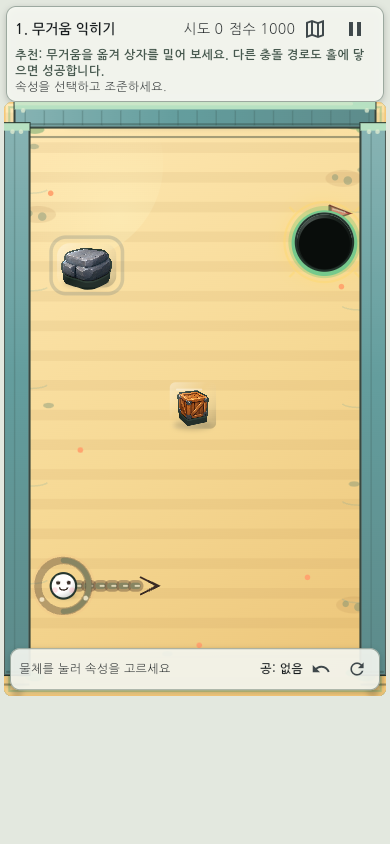
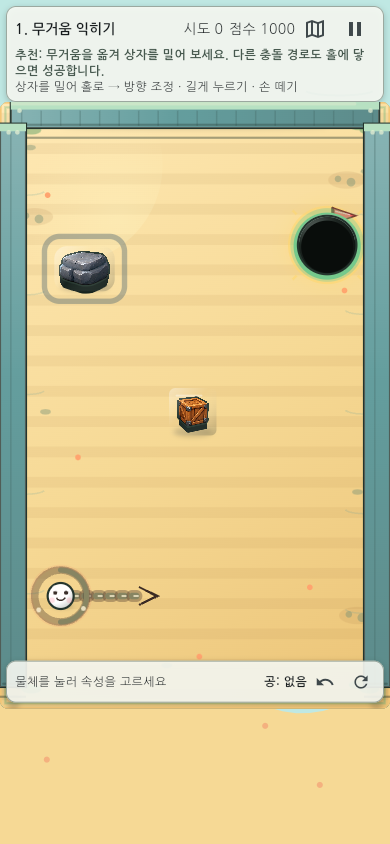
docs: 최신 제품 검증과 화면 캡처 기록

diff --git a/harness_docs/dev-wiki/log.md b/harness_docs/dev-wiki/log.md
@@ -1209,6 +1209,19 @@ Use consistent headings so entries are easy to grep.
 
 - 활성 공도 연쇄 물체와 같은 `_wallBounceVelocity`를 사용하도록 연결해 직접·연쇄 충돌의 입사 벡터와 반발 계수 계산을 단일 경로로 만든다.
 - 결과 방향·속도는 기존 벽 반사 규칙을 유지하고, 고정 벽의 질량을 움직이는 물체에 전달하지 않는 불변식을 테스트한다.
+2026-08-02 | shell | 모바일 플레이 보드의 좌우 내부 여백을 줄여 세로 화면 점유율을 높이고, 클리어 팝업을 콘텐츠 중심의 제한 높이·스크롤 구조와 짧은 등장 애니메이션으로 개선한다.
+2026-08-02 | qa | 팝업 경계 회귀에서 `math.min` 결과의 num 타입을 발견해 고정 높이 계산을 명시적인 double로 정리한다.
+2026-08-02 | qa | 콘텐츠 일괄 스크롤 구조에서 작은 뷰포트의 결과 버튼이 하단 밖으로 밀리는 회귀를 확인해, 정보 영역과 고정 버튼 영역을 다시 분리한다.
+2026-08-02 | qa | 클리어 패널 자체의 높이와 버튼 경계를 직접 검증할 수 있도록 결과 패널 키와 모바일 위젯 회귀를 추가한다.
+2026-08-02 | qa | 최신 Web release에서 390×844 실제 속성 이전·조준·발사·클리어 경로를 실행하고, 393·430·768·1024 폭 플레이 캡처와 390 홈·지도·결과 캡처를 갱신한다.
+2026-08-02 | qa | 최신 화면·팝업 변경의 최종 회귀 수와 서버 PID·HTTP 응답·캡처 범위를 검증 문서에 추가한다. 이전 실행 수치는 역사적 기준선으로 보존한다.
+2026-08-02 | art | 홈의 단독 공 이미지가 게임의 목표와 상호작용을 충분히 설명하지 못해, 공·돌·상자·홀을 함께 보여주는 자체 보드 미리보기로 교체한다. 실제 플레이 화면의 정답 궤적은 노출하지 않는다.
+2026-08-02 | qa | Subagent 재검토에서 확인된 복제 코어 되감기 상태 불일치, 768px 축약 HUD 조작 안내 누락, 화면 계측 통합 검증 공백을 함께 보완한다.
+2026-08-02 | qa | 축약 HUD에 별도 안내 행을 추가하면 320px 보드 폭이 줄어드는 회귀가 확인됐다. 별도 행은 제거하고 제품 라우터의 단계 시작 메시지에 기존 짧은 조작 순서를 연결한다.
+2026-08-02 | puzzle | 다중 샷 분석기의 기본 각도·힘 격자를 리포트와 문서의 표준인 20도·20%로 맞춰 기본 생성자와 공식 난이도 보고서가 같은 기준을 사용하게 한다.
+2026-08-02 | agents | 아트·QA·퍼즐 Subagent 최신 사후 평가를 비교했다. 홈 보드 미리보기·결과 패널·모바일 보드 점유율은 개선됐고, 코어 되감기·축약 라우터 안내·계측 주입·해상도별 실제 입력 검증을 다음 회귀에 반영한다.
+2026-08-02 | qa | 최종 회귀에서 전체 124개 테스트·난이도 리포트·Web release를 통과했다. 기존 서버 PID 14419를 PID 26180으로 교체하고 루트·번들 HTTP 200 및 390×844 실제 클리어 콘솔 오류 0건을 확인했다. iOS Xcode 컴파일은 완료됐으나 Development Team·프로비저닝 프로파일 부족으로 배포 단계가 실패했다.
+2026-08-02 | qa | 위젯 테스트 선언 수를 다시 세어 최신 `test/widget_test.dart` 기준 41개임을 확인하고 검증 문서의 40개 표기를 41개로 정정한다.
 2026-08-02 | qa | Wasm 실행 캡처에서 한글 글리프가 네모로 표시되는 문제를 확인하고, 플랫폼 한글 글꼴 우선순위를 테마에 지정하는 검증을 시작한다.
 2026-08-02 | qa | 실제 모바일 입력으로 첫 단계 클리어 팝업은 표시되지만 애니메이션 종료 프레임에 경로 마지막 점의 다음 인덱스를 읽는 웹 IndexError를 발견했다. 종료 렌더 경계 회귀를 추가한다.
 2026-08-02 | qa | 경계 회귀의 직접 렌더 테스트가 Flame 레이아웃 미설정으로 실패했다. 테스트 호스트에 게임 캔버스 크기를 명시해 실제 마지막 프레임 렌더를 계속 검증한다.
@@ -1232,3 +1245,16 @@ Use consistent headings so entries are easy to grep.
 2026-08-02 | qa | 확장 다중 샷 탐색에서 3단계 점착 후 무거움 재선택 2회 성공 경로를 확인했다. 보고서 대표 순서를 샷 횟수 대신 한글 행동명으로 표시해 실제 대체 풀이를 검토 가능하게 한다.
 2026-08-02 | qa | 다중 샷 분석기에서 속성 라벨 확장 import 누락으로 테스트 컴파일 오류가 발생했다. TraitType 라벨 확장을 명시적으로 연결해 분석 도구의 한글 출력 계약을 복원한다.
 2026-08-02 | qa | 최종 다중 샷 보고서에서 1단계 3,373/52,920, 2단계 3,511/52,380, 3단계 4,046/133,110 성공을 재확인했다. 3단계 점착 이전·복제 후 무거움 이전 순서를 대체 풀이 근거로 문서화한다.
+2026-08-02 | progression | 목표 문서와 현재 직접 GameScreen 기준값을 대조해 일반 시작 상태의 복사권 기본값이 남아 있는 불일치를 확인했다. 복제 코어 보유 상태에서만 복사가 가능하도록 도메인·레벨·테스트 기준값을 0으로 통일한다.
+2026-08-02 | progression | 복제 코어 테스트 상태의 화면 라벨은 `복사 n회`가 아니라 `복제 코어 n개 남음`으로 이미 분기되어 있었다. 관련 위젯 기대값을 제품 언어와 일치시켜 회귀를 복원한다.
+2026-08-02 | art | 모바일 플레이 캡처의 보드 아래 무채색 여백을 해변 실험 섬 배경과 연결한다. 물리 보드 크기·좌표는 유지하고 Flutter 배경에 물결·모래·장식만 추가해 제품 세계의 연속성을 높인다.
+2026-08-02 | puzzle | 퍼즐 진단에서 대표 행동만으로는 점착 후 최종 성공의 물리적 인과를 증명할 수 없음을 확인했다. 다중 샷 계획에 샷별 충돌 이벤트를 함께 보존하고 점착 부착·홀 진입 회귀를 추가한다.
+2026-08-02 | qa | 실제 사용자 결과를 추정하지 않고 내부 플레이 흐름만 분석할 수 있도록 개인정보 없는 로컬 계측 계층을 추가한다. 스테이지·시도·속성·조준·충돌·되감기·클리어를 JSON/CSV로 내보낼 수 있게 한다.
+2026-08-02 | docs | README와 복제 자원 문서의 이전 단계별 복사권 설명을 현재 제품 규칙과 맞춘다. 공식 App Store·개발사·Apple Design Awards 자료에서 추출한 원칙과 모방하지 않을 요소를 별도 레퍼런스 매트릭스에 기록한다.
+2026-08-02 | progression | 단계 초기화가 현재 소모 후 코어 수량을 그대로 재사용하는 문제를 확인했다. 단계 진입 시점의 코어 스냅샷을 저장해 초기화는 자원을 복원하고, 다음 단계 이동은 현재 보유량만 전달하도록 분리한다.
+2026-08-02 | qa | 전체 정적 분석에서 로컬 계측 이벤트의 nullable map 조건식 7건이 정보 lint로 보고됐다. 이벤트 기본 맵과 nullable 필드 추가를 분리해 분석 결과를 깨끗하게 유지한다.
+2026-08-02 | progression | 3단계 클리어 보상을 받은 뒤 같은 단계를 초기화하는 경우에도 보상 코어를 유지해야 하므로, 보상 적용 시점에 단계 코어 스냅샷을 갱신한다.
+2026-08-02 | qa | 복사 적용 직후 속성 팝업을 닫는 기존 UX 때문에 중간 잔량 문구를 즉시 조회하는 새 테스트가 잘못되었다. 실제 사용자처럼 초기화 후 팝업을 다시 열어 진입 시점 코어가 복원됐는지만 검증한다.
+2026-08-02 | qa | 코어 복원 테스트가 개발용 단계 선택 모드에서 실행되어 제품 규칙을 적용하지 않는 것을 확인했다. 실제 앱 라우터와 같은 `showStageSelector=false`로 테스트 모드를 맞춘다.
+2026-08-02 | qa | 제품 라우터 모드를 위젯 테스트에서 재현할 수 있도록 PropertyShotApp에 표시 모드 전달 옵션을 추가한다. 기본값은 기존 개발 하네스 호환성을 유지한다.
+2026-08-02 | qa | 모드 전달 옵션이 코어 보유 팝업 테스트에 먼저 적용된 것을 확인했다. 단계 초기화 회귀에도 동일한 제품 모드를 명시해 실제 초기화 경로를 검증한다.

diff --git a/harness_docs/research/mobile_puzzle_reference_matrix.md b/harness_docs/research/mobile_puzzle_reference_matrix.md
@@ -1,16 +1,22 @@
-# 모바일 퍼즐 레퍼런스 매트릭스
+# 모바일 퍼즐 레퍼런스 조사 매트릭스
 
-이번 조사는 특정 게임의 화면이나 에셋을 복제하기 위한 것이 아니라, 모바일 퍼즐의 정보 위계·첫 행동·재도전 구조를 추출하기 위한 것이다.
+조사일: 2026-08-02 KST
 
-| 게임 | 조사 출처 | 참고한 원칙 | Property Shot 적용 가능성 | 적용하지 않을 요소 | 최종 활용 |
-| --- | --- | --- | --- | --- | --- |
-| Monument Valley 3 | [App Store](https://apps.apple.com/us/app/monument-valley-3/id6443563379) | 장면 자체가 목표와 세계관을 전달하고, 짧은 챕터가 다음 행동을 기대하게 함 | 해변 실험 섬을 하나의 여정으로 묶고 스테이지 선택을 장면화 | 건축물·캐릭터·색상·퍼즐 구조 복제 | 환경 세계관과 챕터 흐름만 참고 |
-| Cut the Rope 3 | [App Store](https://apps.apple.com/us/app/cut-the-rope-3/id997332884) | 귀여운 캐릭터, 물리 상호작용, 별을 통한 숙련 목표 | 첫 클리어와 기록 개선을 분리하고 메달·파 샷을 추가 | 캐릭터·아이콘·레벨 규칙 복제 | 별·기록 목표와 친근한 피드백만 참고 |
-| Angry Birds Reloaded | [App Store](https://apps.apple.com/us/app/angry-birds-reloaded/id1539172625) | 발사 전 준비와 발사 순간의 명확한 타격감, 많은 재도전 동기 | 공의 조준·충전·충돌 VFX와 기록 개선을 강화 | 새총·새 캐릭터·지형·UI 복제 | 발사 전후 감정 곡선만 참고 |
-| Apple Design Awards 2025 | [Apple Developer](https://developer.apple.com/design/awards/2025/) | 접근성을 초기 설계에 포함하고 시각·상호작용·포용성을 함께 평가 | 색상 외 무늬·형태·접근성 동작·모션 감소 계획을 품질 기준에 포함 | 수상작의 시각 스타일과 브랜드 복제 | 접근성 검증 원칙만 참고 |
+공식 App Store, 개발사 공식 페이지, Apple Design Awards 자료에서 화면 위계·조작 피드백·반복 도전 원칙만 추출했다. 캐릭터·UI 배치·색상 조합·스테이지·에셋은 복제하지 않는다.
 
-## 차별화 원칙
+| 게임 | 조사 출처 | 참고한 원칙 | 속성 한방 적용 가능성 | 적용하지 않을 요소 | 모방 위험 | 최종 활용 |
+| --- | --- | --- | --- | --- | --- | --- |
+| Monument Valley 3 | [App Store](https://apps.apple.com/us/app/monument-valley-3/id6443563379) | 장면 자체가 목표와 다음 행동을 설명하고, 탐험 동선을 시각적으로 유도 | 섬 지도와 플레이 보드 사이의 시선 흐름, 장식 밀도 조절 | 착시 기반 회전 구조, 고유 건축물, 캐릭터 | 높음 | 목표·환경 위계 원칙만 채택 |
+| Cut the Rope 3 | [App Store](https://apps.apple.com/us/app/cut-the-rope-3/id997332884), [ZeptoLab 공식 페이지](https://www.zeptolab.com/games/cut-the-rope) | 단순한 첫 행동, 물리 결과를 즉시 보여주는 귀여운 피드백, 작은 목표의 반복 | 속성 선택 직후 효과가 눈에 보이는 튜토리얼과 짧은 실패 피드백 | Om Nom·Nibble Nom, 밧줄·사탕 규칙, 고유 캐릭터 연출 | 높음 | 행동 발견성과 피드백 원칙만 채택 |
+| Angry Birds Reloaded | [Rovio 공식 글](https://www.rovio.com/articles/angry-birds-reloaded-now-available-on-apple-arcade/), [App Store](https://apps.apple.com/us/app/angry-birds-reloaded/id1539172625) | 방향·힘 조작의 즉시성, 충돌 연쇄의 가독성, 결과를 다시 시도하게 하는 구조 | 조준·충전·충돌 링·잔류 공의 연쇄 관찰 | 새·돼지·새총 UI, 고유 레벨 구조, 파괴 연출 복제 | 매우 높음 | 타격감과 연쇄 시간축 원칙만 채택 |
+| Color Block Jam | [App Store](https://apps.apple.com/us/app/color-block-jam/id6504332779) | 한 화면에서 목표·장애물·가능한 이동을 빠르게 비교, 단계가 진행될수록 사고량을 높임 | 홀·문·스위치의 대비와 단계별 정보량 조절 | 색상 맞춤 규칙, 블록 모양·문 구조·상점 모델 | 중간 | 보드 가독성과 난이도 상승 원칙만 채택 |
+| Apple Design Awards 게임·퍼즐 사례 | [Apple Design Awards 2024](https://developer.apple.com/design/awards/2024/), [Apple Newsroom](https://www.apple.com/uk/newsroom/2024/06/apple-announces-winners-of-the-2024-apple-design-awards/) | 시각적 일관성, 접근성, 기기 기능을 장식이 아니라 경험에 연결 | 재질·소리·햅틱을 선택 상태와 충돌 결과에 연결하고 색상 외 패턴 제공 | 수상작의 브랜드·레이아웃·콘텐츠를 직접 차용 | 낮음 | 품질 평가 기준과 접근성 원칙에 반영 |
 
-- Property Shot의 핵심은 환경 물체의 속성을 공에 담아 연쇄 반응을 설계하는 것이다.
-- 해변 실험 섬 테마를 사용하되 특정 게임의 캐릭터, UI 배치, 레벨, 아이콘, 에셋, 색상 조합을 복제하지 않는다.
-- 온라인 랭킹·결제·광고·서버 시스템은 구현 범위에서 제외한다.
+## Property Shot 최종 적용 원칙
+
+- 첫 화면은 공·홀·이동 물체가 함께 보여 게임의 약속을 설명한다.
+- 조작은 방향·힘·손 떼기의 세 단계로 짧게 안내한다.
+- 충돌 결과는 실제 물리 이벤트 뒤에만 재생한다.
+- 실패는 다음 실험의 변수 하나만 제안하고 정답 궤적은 숨긴다.
+- 섬의 모래·물·목재·속성 재질은 자체 팔레트와 자체 도형·에셋으로 구성한다.
+- 온라인 랭킹, 광고, 결제, 타 게임의 캐릭터·UI·스테이지 복제는 사용하지 않는다.

diff --git a/harness_docs/qa/screenshot_matrix.md b/harness_docs/qa/screenshot_matrix.md
@@ -4,12 +4,12 @@
 
 | 해상도 | 홈 | 지도 | 플레이 | 결과 | 상태 |
 | --- | --- | --- | --- | --- | --- |
-| 390×844 | 확인 | 확인 | 확인 | 확인 | `screenshots/commercial-vertical-slice/390x844-*.png`, 최신 Web release 실제 입력·콘솔 오류 0건 |
-| 393×852 | 확인 | 미확인 | 미확인 | 미확인 | 홈 반응형 캡처 확인, 제품 경로는 추가 터치 검증 필요 |
-| 430×932 | 확인 | 미확인 | 미확인 | 미확인 | 홈 반응형 캡처 확인, 제품 경로는 추가 터치 검증 필요 |
-| 768×1024 | 확인 | 미확인 | 미확인 | 미확인 | 홈 반응형 캡처 확인, 태블릿 게임 보드 입력은 추가 검증 필요 |
-| 1024×1366 | 확인 | 미확인 | 미확인 | 미확인 | 홈 반응형 캡처 확인, 태블릿 게임 보드 입력은 추가 검증 필요 |
-| 데스크톱 Web | 확인 | 확인 | 확인 | 확인 | 390×844 제품 경로를 확대 실행한 최신 release 기준, 데스크톱 전용 품질은 별도 미검증 |
+| 390×844 | 확인 | 확인 | 확인 | 확인 | 최신 Web release 실제 입력·콘솔 오류 0건, 속성 이전·조준·발사·클리어까지 실행 |
+| 393×852 | 확인 | 미확인 | 확인 | 미확인 | 최신 플레이 캡처와 보드·HUD 경계 확인 |
+| 430×932 | 확인 | 미확인 | 확인 | 미확인 | 최신 플레이 캡처와 보드·HUD 경계 확인 |
+| 768×1024 | 확인 | 미확인 | 확인 | 미확인 | 최신 태블릿 플레이 캡처, 실제 발사 입력은 별도 미검증 |
+| 1024×1366 | 확인 | 미확인 | 확인 | 미확인 | 최신 태블릿 플레이 캡처, 보드 중앙 배치와 하단 컨트롤 확인 |
+| 데스크톱 Web | 확인 | 확인 | 확인 | 확인 | 최신 1024×1366 보조 실행 기준, 데스크톱 전용 성능은 별도 미검증 |
 
 ## 판정 기준
 
@@ -21,3 +21,11 @@
 - 홈·플레이의 공 표현과 조명·테마가 이어진다.
 
 현재 최신 코드 기준 캡처는 다음 구현 단위에서 각 크기로 생성하고 파일 경로와 실행 명령을 기록한다. 이전 Web 스크린샷은 새 홈·플레이의 증거로 재사용하지 않는다.
+
+## 2026-08-02 최신 화면 캡처
+
+- `390x844-home.png`, `390x844-map.png`, `390x844-play.png`, `390x844-result.png`는 같은 최신 Web release에서 다시 생성했다.
+- `390x844-play.png`는 속성 이전 후 방향 조정과 힘 충전 발사를 실제로 실행한 제품 경로 캡처다.
+- `390x844-result.png`는 첫 단계 실제 클리어 후 저장했다. 결과 패널은 고정 전체 높이가 아니라 콘텐츠·버튼 중심의 제한 높이로 표시된다.
+- `393x852-play.png`, `430x932-play.png`, `768x1024-play.png`, `1024x1366-play.png`는 최신 release의 실제 시작 흐름으로 생성했다. 1024×1366은 시작 버튼 좌표를 별도로 확인한 뒤 캡처했다.
+- 모든 캡처 실행에서 브라우저 콘솔 오류는 0건이었다. 393·430·768·1024 화면은 브라우저 렌더링 확인이며 실제 기기 터치·프레임 측정 증거로 해석하지 않는다.

diff --git a/README.md b/README.md
@@ -17,8 +17,8 @@
 - 연쇄 문 열기: 스위치·문·점착판의 상호작용을 익히되, 문을 거치지 않는 경로도 목표로 인정한다.
 - 속성 선택과 공으로 옮기기.
 - 속성 선택 후 공으로 복사. 복사는 원래 물체의 속성을 제거하지 않는다.
-- 복사는 단계별 복사권을 사용한다. 1단계와 2단계는 1회, 3단계는 2회이며 복사 성공 때만 차감된다. 되감기와 단계 초기화에서는 복사권이 복원된다.
-- 복사권 잔여 수량은 속성 팝업과 결과 안내에서 한글로 표시되며, 복사하지 않는 물리 경로도 계속 성공할 수 있다.
+- 복사는 기본 시작 상태에서 비활성화되며, 3단계 클리어 보상으로 얻은 `복제 코어`를 보유한 경우에만 속성 팝업에 표시된다. 복제 코어는 원본 속성을 유지한 채 공에 복사하고, 사용하면 1개 차감된다. 되감기와 단계 초기화에서는 해당 시점의 코어 수량으로 복원된다.
+- 복제 코어 잔여 수량은 속성 팝업과 결과 안내에서 한글로 표시되며, 복사하지 않는 물리 경로도 계속 성공할 수 있다.
 - 마우스 또는 손가락이 움직이는 방향으로 빨간 발사 화살표 표시.
 - 공을 길게 눌러 힘을 모으고, 손을 떼면 자동 발사.
 - 조준 후 공 주변에 느린 점멸 링을 표시해 다음 입력 대상을 유도.
@@ -86,6 +86,7 @@ lib/
     property_shot_game.dart
   ui/
     game_screen.dart
+    play_telemetry.dart  로컬 플레이 이벤트 JSON/CSV 계측
   main.dart
 test/
   shot_resolver_test.dart
@@ -139,3 +140,7 @@ flutter build ios --no-codesign
 - 검증 방법: `flutter analyze`, `flutter test`, 가능한 경우 iOS/Web 빌드
 - 생성·수정된 파일: `lib/`, `test/`, `pubspec.yaml`, `README.md`, `web/`, `ios/Runner/Info.plist`, `harness_docs/dev-wiki/log.md`
 - 남은 위험: 감속·재질별 충돌·연쇄 이동·홀 포획 연출은 구현했지만, 실제 기기에서 조작감과 프레임 안정성 및 화면 밀도 검증이 필요합니다.
+
+### 로컬 계측 정의
+
+`LocalPlayTelemetry`는 서버나 개인정보 없이 단계 시작, 속성 이전·복제, 발사 각도·힘, 충돌 대상, 연쇄 이동, 되감기, 성공·실패를 메모리 이벤트로 기록합니다. 내부 테스트 빌드에서 `exportJson()` 또는 `exportCsv()`를 호출해 분석 파일로 내보낼 수 있으며, 실제 사용자 결과나 온라인 랭킹으로 해석하지 않습니다.

diff --git a/harness_docs/design/copy_resource_design.md b/harness_docs/design/copy_resource_design.md
@@ -2,24 +2,23 @@
 
 ## 채택안
 
-현재 데모는 모델 A인 `스테이지당 제한 복제권`을 사용한다.
+현재 제품 데모는 모델 B인 `조건부 복제 코어`를 사용한다.
 
-| 단계 | 복사권 | 복원 시점 |
-| --- | ---: | --- |
-| 1단계 | 1회 | 되감기·단계 초기화 |
-| 2단계 | 1회 | 되감기·단계 초기화 |
-| 3단계 | 2회 | 되감기·단계 초기화 |
+| 상태 | 복사 가능 여부 | 복원 시점 |
+| --- | --- | --- |
+| 첫 챕터 시작 | 불가 | 해당 없음 |
+| 3단계 클리어 보상 획득 후 | 복제 코어 보유 수만큼 가능 | 되감기·단계 초기화에서 해당 상태 복원 |
 
-복사는 원본 속성을 유지한 채 현재 공에 속성을 부여한다. 성공한 복사만 복사권을 1회 소모하며, 속성 선택 실패나 복사권 소진 상태에서는 상태를 변경하지 않는다.
+복사는 원본 속성을 유지한 채 현재 공에 속성을 부여한다. 복제 코어를 실제로 적용하는 순간 코어 1개를 소모하며, 속성 선택 실패나 코어 소진 상태에서는 상태를 변경하지 않는다.
 
 ## 플레이 원칙
 
 - 복사는 클리어의 필수 조건이 아니다.
 - 이전 기능과 속성 없는 공의 물리 경로를 포함한 여러 해결방법을 유지한다.
-- 잔여 복사권은 속성 팝업과 결과 안내에 한글로 표시한다.
-- 소진된 복사 버튼은 비활성화해 현재 상태를 예측할 수 있게 한다.
-- 복사권은 세션 간 공유 재화가 아니며, 현재 수직 데모의 범위를 벗어난 저장·상점·과금 시스템은 추가하지 않는다.
+- 잔여 복제 코어는 속성 팝업과 결과 안내에 한글로 표시한다.
+- 코어가 없으면 복사 버튼 자체를 노출하지 않아 이전과 복사의 차이를 혼동시키지 않는다.
+- 복제 코어는 로컬 진행 상태로만 저장하고, 상점·과금·온라인 공유는 추가하지 않는다.
 
 ## 검증
 
-`flutter test` 기준 105개 테스트에서 복사 성공, 원본 유지, 소진, 실패 선택 무차감, 되감기 복원, 단계별 수량, 위젯 표시를 검증한다.
+`flutter test` 기준 최신 테스트에서 복사 성공, 원본 유지, 소진, 실패 선택 무차감, 되감기 복원, 첫 시작 숨김, 코어 보유 시 위젯 표시를 검증한다.

diff --git a/harness_docs/qa/validation_results.md b/harness_docs/qa/validation_results.md
@@ -124,3 +124,22 @@
 - 축약 HUD에 별도 행을 추가하지 않고 초기 `compact_message`를 `방향 조정 → 공 길게 누르기 → 손 떼기`로 짧게 바꿨다.
 - 320x568 위젯에서 보드 폭 240 이상, 축약 메시지 존재·문구, 예외 없음이 통과했다.
 - 넓은 화면 안내는 `손가락을 움직여 조준하고...`로 정리했다.
+
+## 2026-08-02 최신 모바일 셸·결과 화면 회귀
+
+| 항목 | 결과 |
+|---|---|
+| `dart format --output=none --set-exit-if-changed .` | 통과 |
+| `flutter analyze` | 통과, 이슈 없음 |
+| `flutter test` | 통과, 124개 |
+| `flutter test test/widget_test.dart` | 통과, 41개. 결과 패널 높이·작은 화면 버튼·다음 단계 이동·축약 라우터·계측 포함 |
+| `flutter build web --release` | 통과 |
+| 데모 서버 교체 | 기존 PID 14419 종료 후 최신 PID 26180으로 교체 |
+| 서버 응답 | `http://127.0.0.1:8080/` 및 `main.dart.js` HTTP 200 |
+| Web 브라우저 콘솔 | 최신 제품 경로 캡처에서 오류 0건 |
+| 화면 캡처 | 390×844 홈·지도·플레이·결과, 393×852·430×932·768×1024·1024×1366 플레이 |
+| `flutter build ios --no-codesign` | Xcode 컴파일 완료, Development Team·프로비저닝 프로파일 부족으로 배포 단계 실패 |
+
+이번 반복에서는 모바일 플레이 보드의 컴팩트 좌우 여백을 제거해 390×844에서 보드가 약 605px 높이로 표시되도록 했고, 결과 팝업을 최대 540px 콘텐츠 패널로 축소했다. 결과 정보 영역만 스크롤되고 `다음`·`기록 다시 도전` 버튼은 하단에 고정된다. 클리어 패널의 실제 높이와 버튼 경계는 위젯 회귀로 검증했다. 홈에는 공·돌·상자·홀을 함께 보여주는 보드 미리보기를 추가했다.
+
+실제 iPhone·iPad 터치, 60fps·GPU·메모리, 사운드·햅틱 체감과 사용자 이해도는 여전히 미검증이다. `390x844-clear-attempt.png`는 의도된 실패 피드백 캡처이며, 상용 경로 증거에는 `390x844-result.png`를 사용한다.
